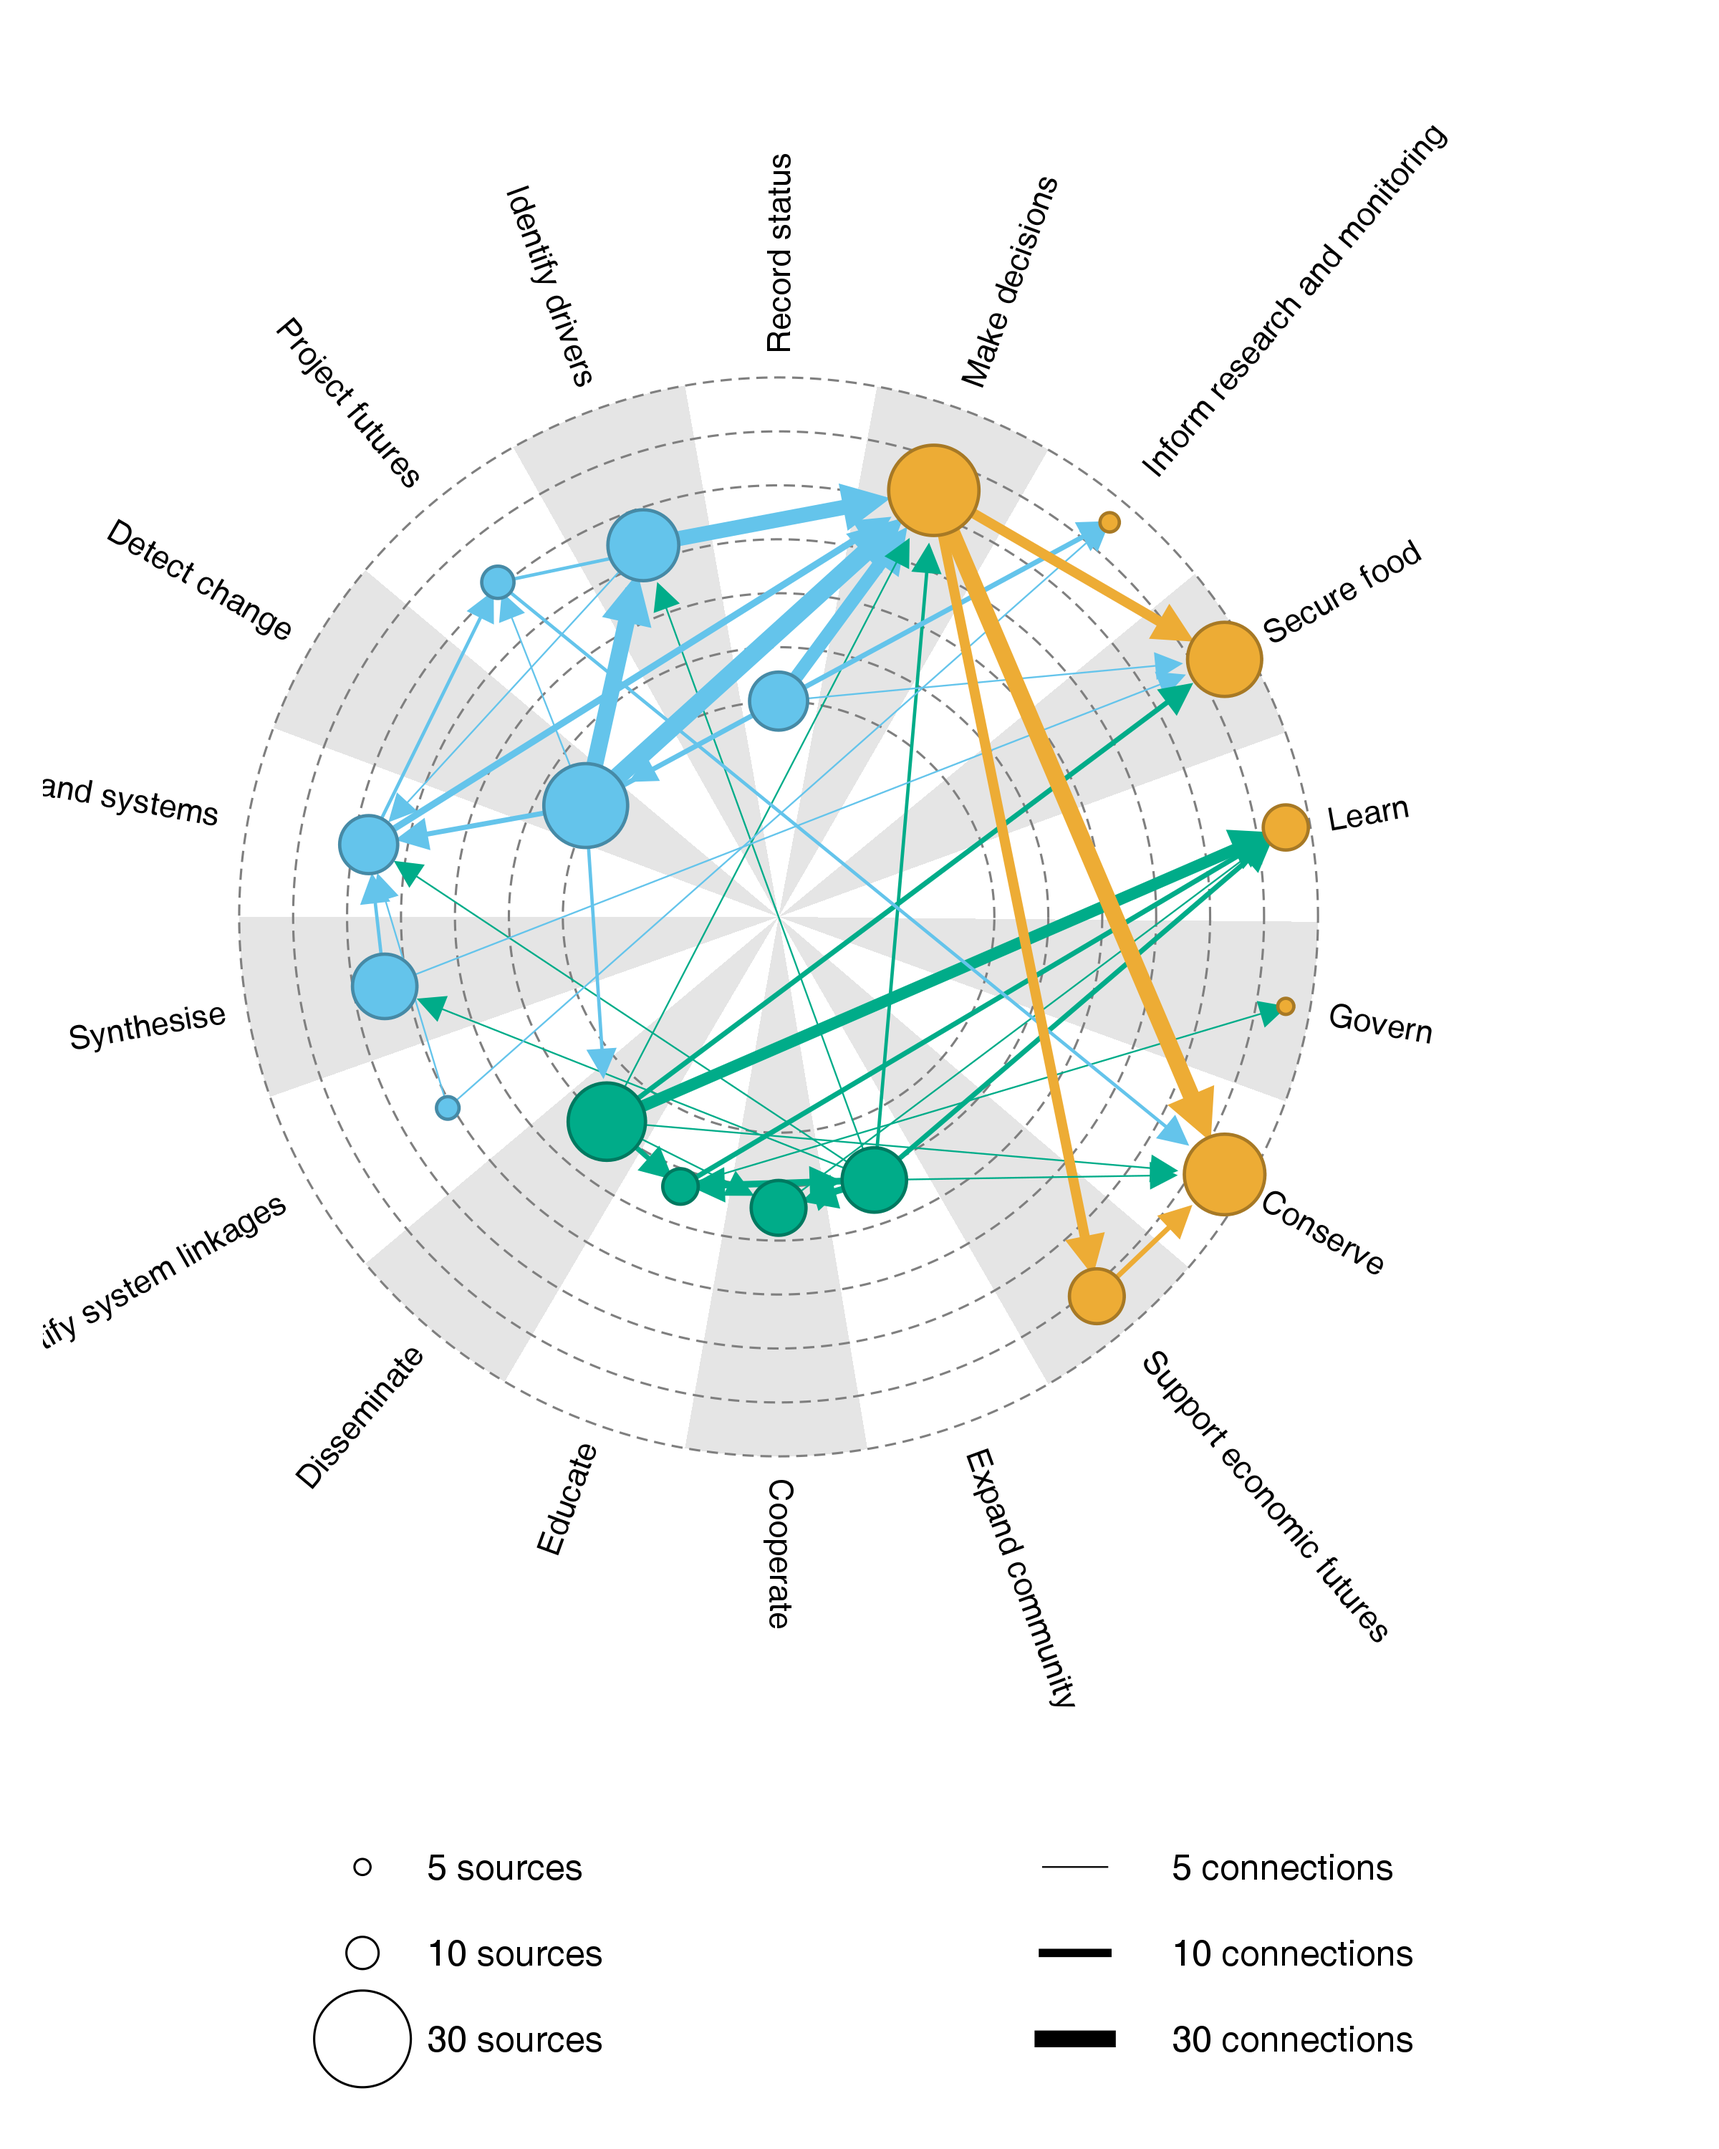
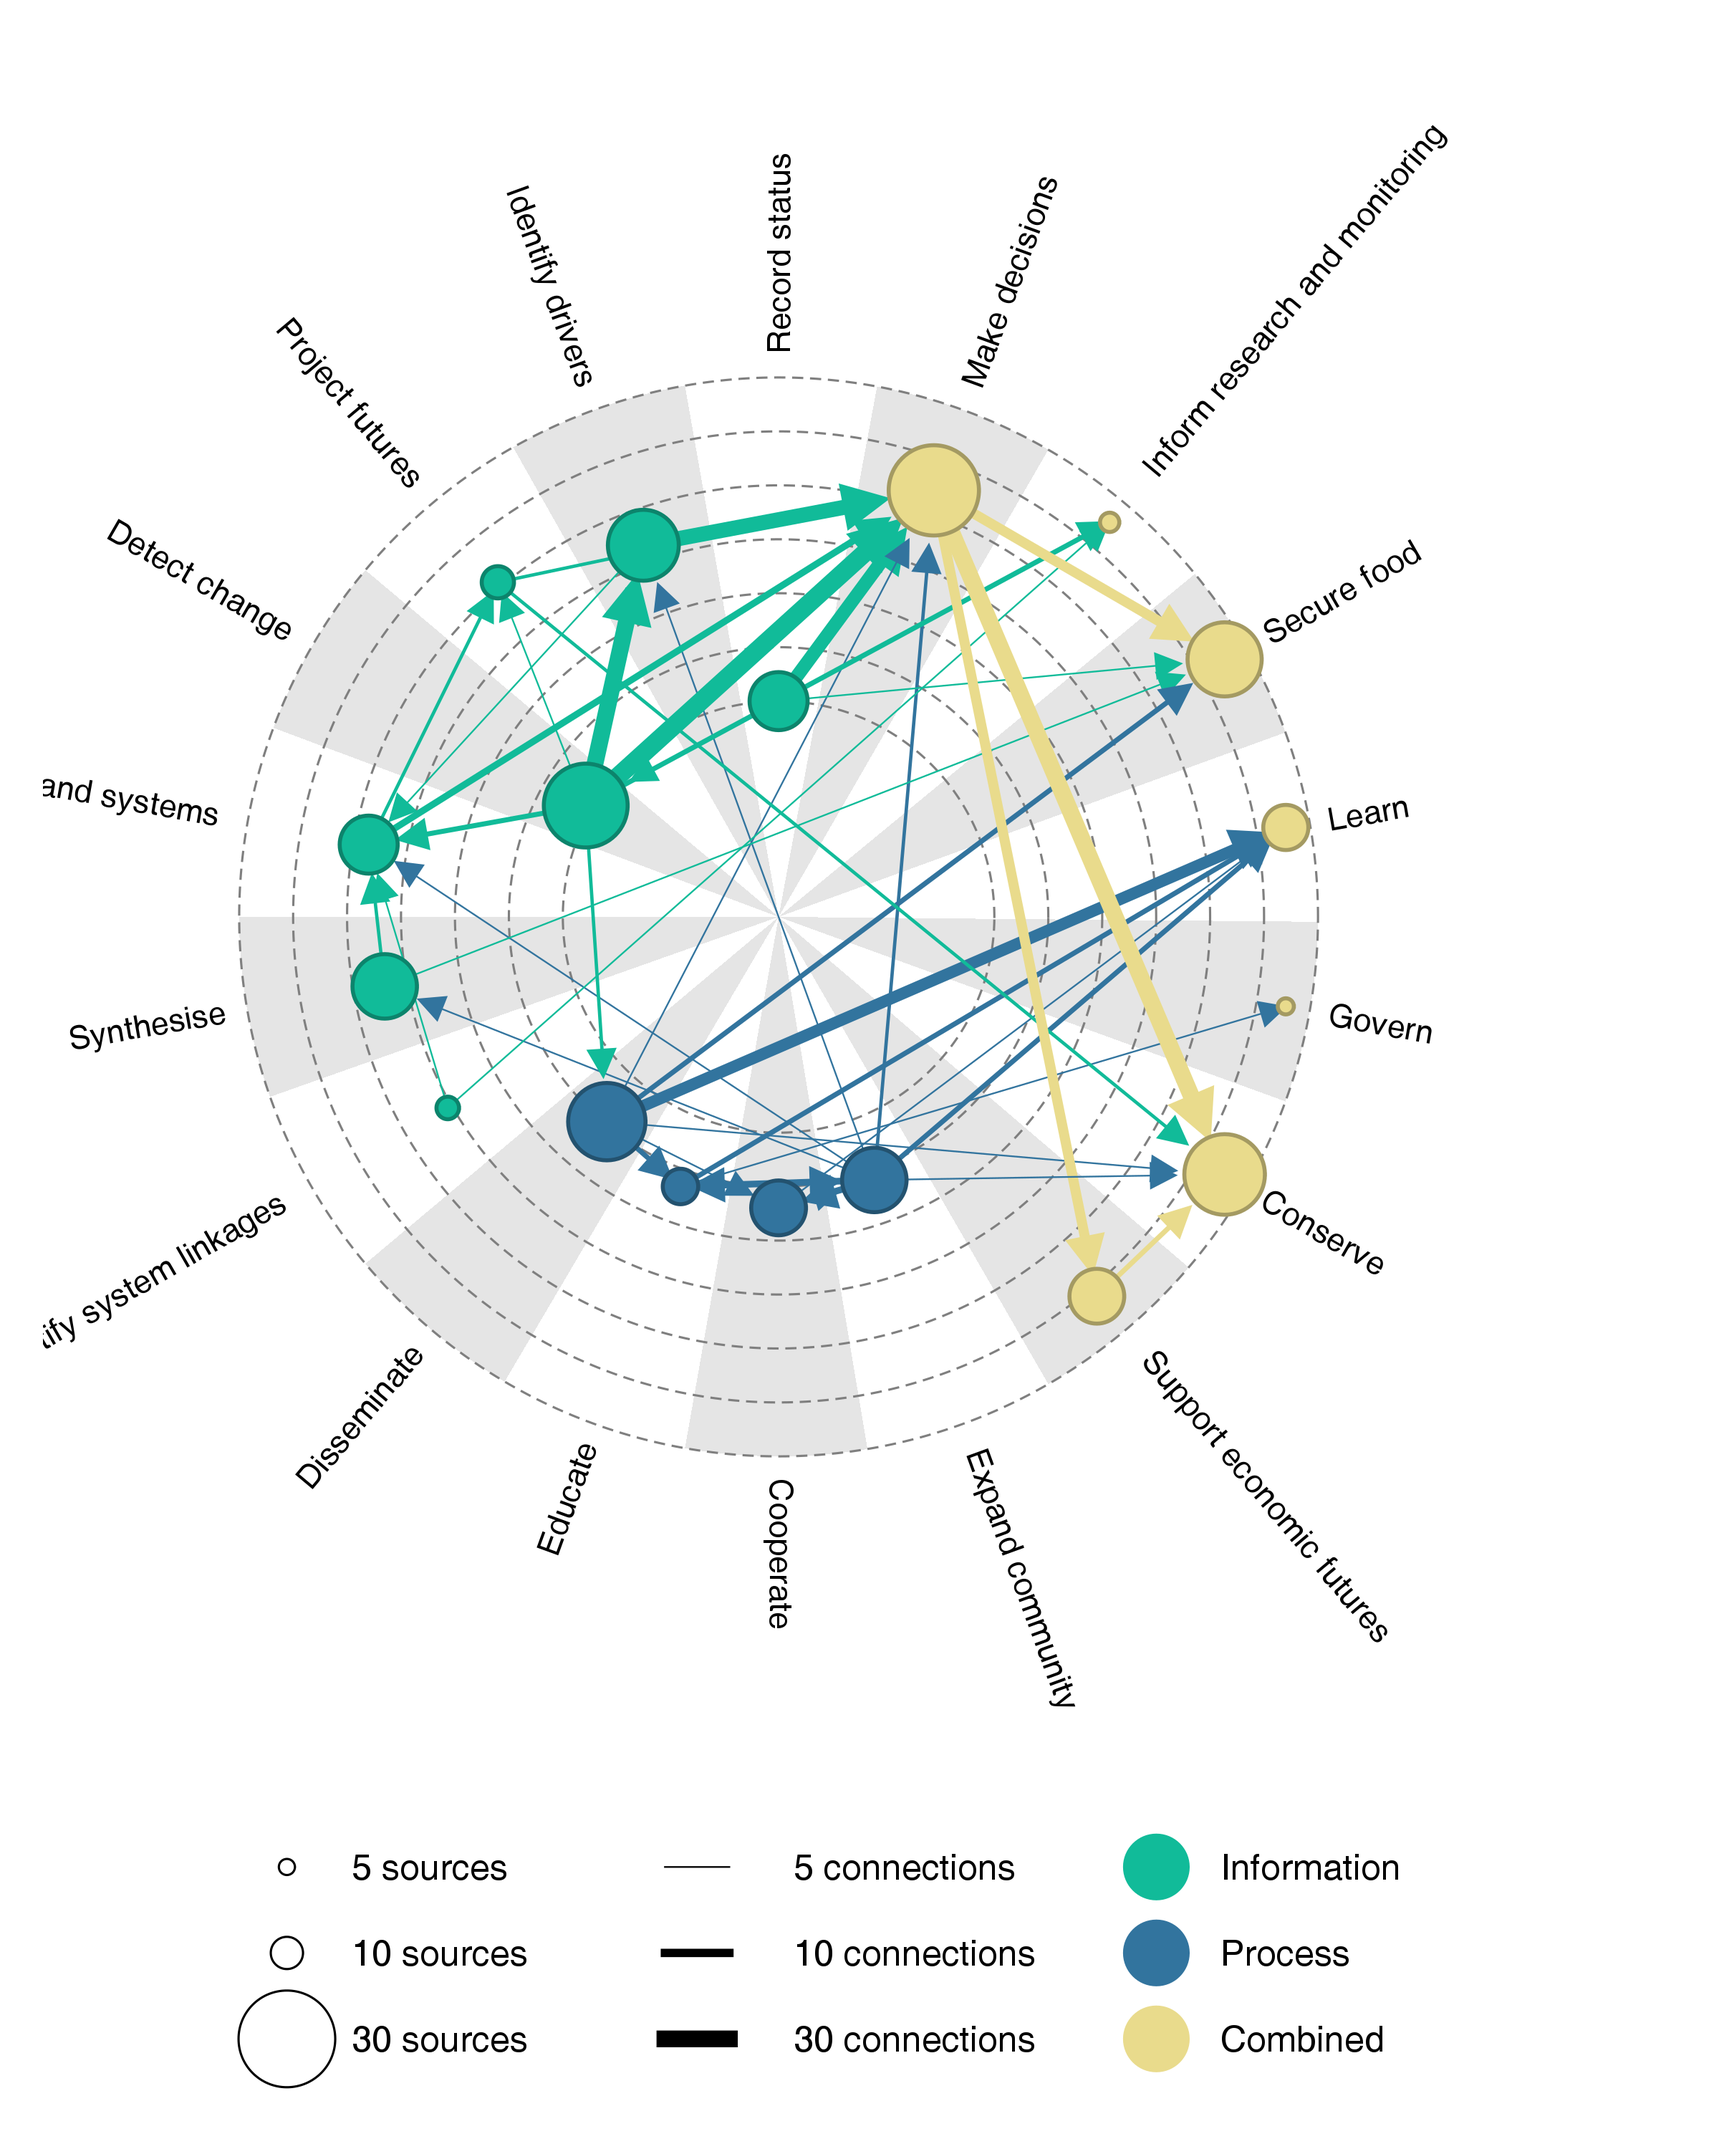
Fig1 reviewed

diff --git a/README.md b/README.md
@@ -32,6 +32,14 @@ We however acknowledge that despite the form of a standard R package, the code
 presented is more a organized script than a package (*i.e.* functions included
 are not general).
 
+Note that one of the packages required, `graphicsutils`, is not available on
+the CRAN. To install it, proceed as follows:
+
+```R
+install.packages("devtools")
+devtools::install_github("inSileco/graphicsutils")
+```
+
 
 
 ## How to
@@ -40,10 +48,11 @@ are not general).
 
 ```R
 set.seed(1987)
+vec_col <- c("#e9db8c", "#11bb99", "#32749e")
 data(nodes)
 data(links)
 png("inst/fig/fig1.png", width=8, height=10, units="in", res=300)
-  dartdiag(nodes, links)
+  dartdiag(nodes, links, vec_col)
 dev.off()
 ```
 
